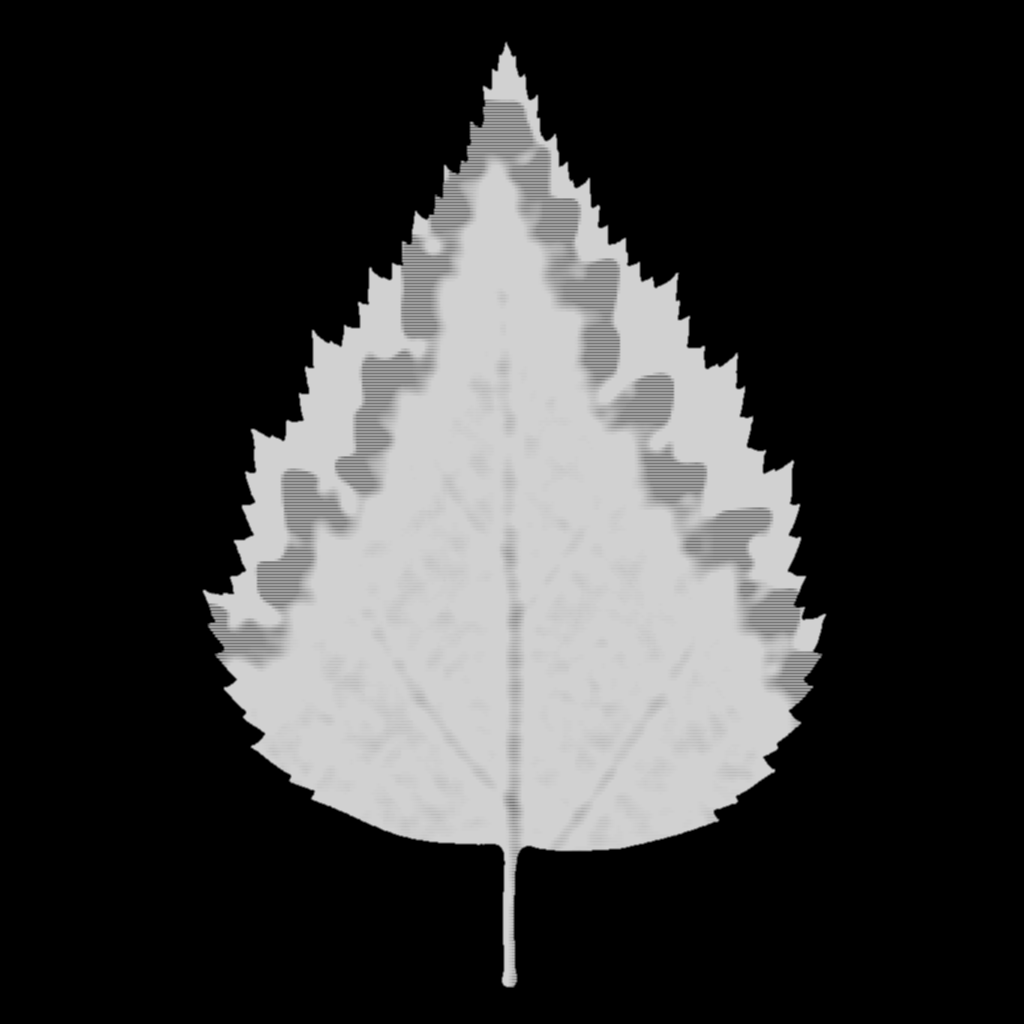
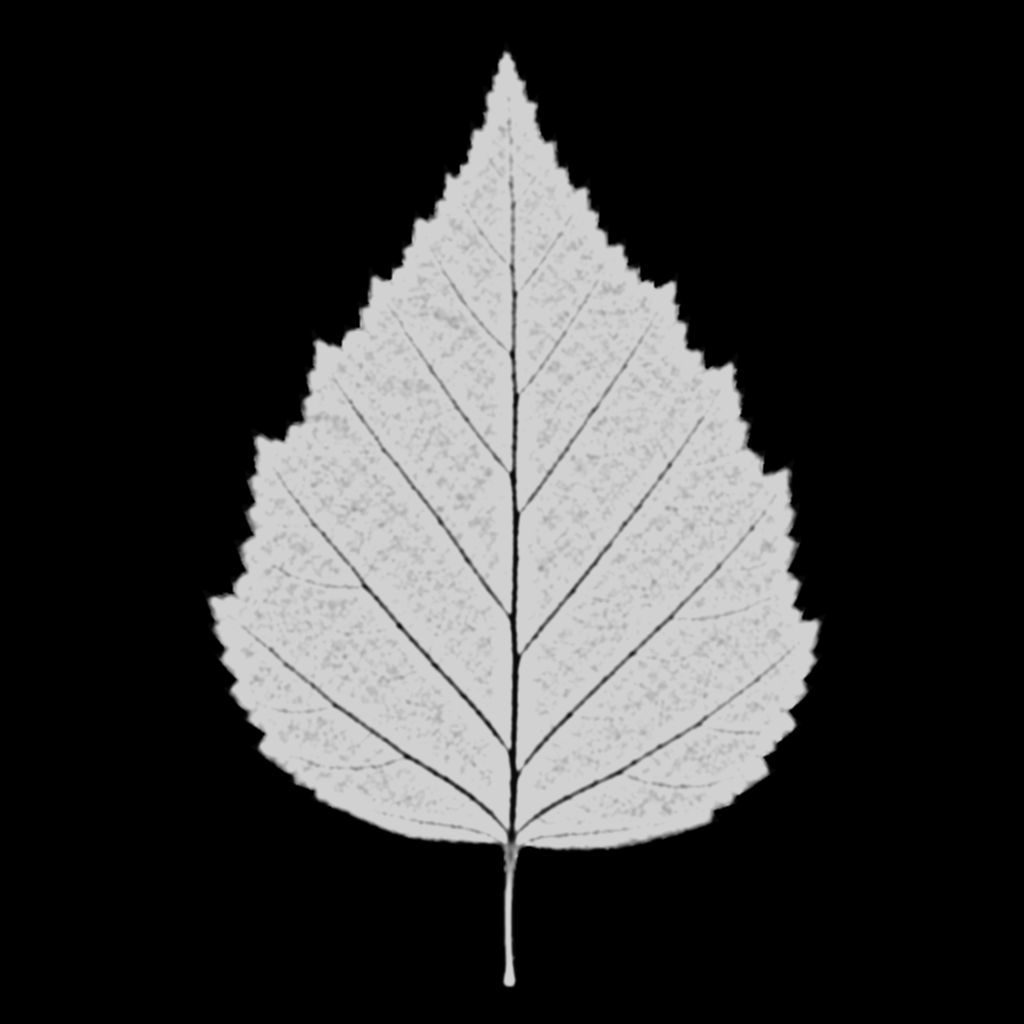
fix(texture): derive-translucency read a 3-channel blur as 1-channel — misaligned, scanlined maps
sharp returns a blurred 1-channel raw image as 3-channel sRGB, so the vein
high-pass indexed lumMed[i]/lumBig[i] into the wrong pixels: a vein field
squashed 3x vertically, stretched sideways and striped with scanlines, over
the correct alpha silhouette. Every map this script made carried it — and so
did every contributor's map made by the documented pipeline.

- take channel 0 back after both blurs (extractChannel), so the veins land
  where the albedo has them
- write <stem>_translucency.png (drop a trailing _albedo, as derive-pbr does)
  instead of *_albedo_translucency.png; README step + header updated, and a
  note to re-derive maps whenever the albedo changes
- regenerated the 12 shipped maps the bug made, each from its own albedo at
  its original --tissue: american sycamore, blackbrush, creosote, douglas fir,
  flowering dogwood, loblolly, paper birch, pine, quaking aspen, sagebrush,
  weeping willow (leaf + spray). Maps made another way are untouched.

Claude-Session: https://claude.ai/code/session_014ByNL1NWATmrvanMXPXNJK

diff --git a/README.md b/README.md
@@ -105,12 +105,13 @@ node scripts/texture/derive-pbr.mjs assets/bark/redcedar_albedo.png   # writes _
 node scripts/texture/chroma-key.mjs        raw.png assets/leaves/redcedar_needle_albedo.png
 node scripts/texture/dilate-alpha.mjs      assets/leaves/redcedar_needle_albedo.png --passes 4
 node scripts/texture/derive-pbr.mjs        assets/leaves/redcedar_needle_albedo.png
-node scripts/texture/derive-translucency.mjs assets/leaves/redcedar_needle_albedo.png  # → *_albedo_translucency.png (rename to _translucency.png)
+node scripts/texture/derive-translucency.mjs assets/leaves/redcedar_needle_albedo.png  # writes _translucency
 ```
 
 Art-direction gotchas learned the hard way:
 - **A needle spray must be a single feather/frond branchlet** — one central woody axis with needles emanating ~45° on both sides, fully inside the frame. A *radial burst* from one point reads as a **grass tuft** on the tree, not a conifer.
 - Bark must tile with no visible seam (offset-check it); a leaf card should fill the frame with a little margin so alpha-dilation and mip-mapping don't clip it.
+- Re-run `derive-pbr` and `derive-translucency` every time the albedo changes: the maps are read from the albedo's own pixels, so maps left over from an earlier albedo won't line up with the leaf.
 
 If you use OpenAI Codex CLI: it can't always save into the workspace, so prompt it to *"generate the image only — do not save/read/list/search files"*, tag the prompt with a unique marker, then harvest the bytes with `scripts/texture/harvest-codex-image.mjs --match <marker> <out.png>`.
 
